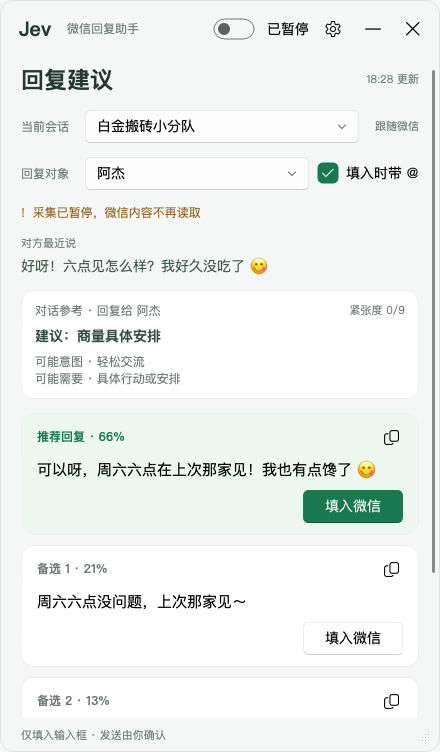
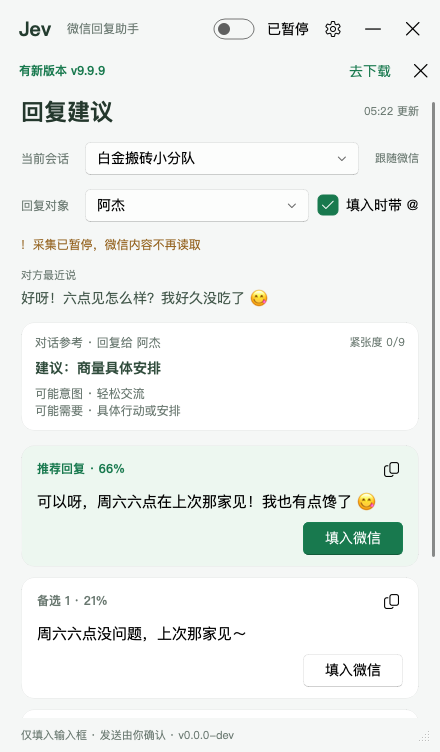
新版本提示：启动时查一次 GitHub Releases 最新版本号（可在设置关），有更新在标题栏下出横幅带下载链接；页脚显示版本号，CI 按 tag 写入 app/version.py

diff --git a/app/overlay.py b/app/overlay.py
@@ -10,13 +10,14 @@ from PySide6.QtWidgets import (
     QVBoxLayout, QWidget,
 )
 from qfluentwidgets import (
-    BodyLabel, CardWidget, CheckBox, ComboBox, FluentIcon as FIF,
+    BodyLabel, CardWidget, CheckBox, ComboBox, FluentIcon as FIF, HyperlinkButton,
     IndeterminateProgressBar, LineEdit, PasswordLineEdit, PlainTextEdit,
     PrimaryPushButton, PushButton, ScrollArea, SpinBox, SwitchButton, Theme, TransparentToolButton,
     setCustomStyleSheet, setFont, setTheme, setThemeColor,
 )
 
 from app import settings
+from app.version import VERSION
 
 _LOG_LINES = 300
 _MUTED = "#68776f"
@@ -215,13 +216,31 @@ class Overlay:
         title.addWidget(_tool(FIF.REMOVE, "最小化", self.win.showMinimized, header))
         title.addWidget(_tool(FIF.CLOSE, "关闭助手", self.win.close, header))
         outer.addWidget(header)
+        self.updateBar = QWidget(self.win)
+        update_row = QHBoxLayout(self.updateBar)
+        update_row.setContentsMargins(18, 4, 8, 4)
+        update_row.setSpacing(8)
+        self.updateLabel = _label("", 12, _GREEN, True)
+        update_row.addWidget(self.updateLabel, 1)
+        self.updateLink = HyperlinkButton("", "去下载", self.updateBar)
+        self.updateLink.setFixedHeight(24)
+        update_row.addWidget(self.updateLink)
+        closeUpdate = TransparentToolButton(FIF.CLOSE, self.updateBar)
+        closeUpdate.setFixedSize(20, 20)
+        closeUpdate.setToolTip("关闭更新提示")
+        closeUpdate.setAccessibleName("关闭更新提示")
+        closeUpdate.clicked.connect(lambda: self.updateBar.hide())
+        update_row.addWidget(closeUpdate)
+        self.updateBar.setFixedHeight(32)
+        self.updateBar.hide()
+        outer.addWidget(self.updateBar)
         self.pages = QStackedWidget(self.win)
         outer.addWidget(self.pages, 1)
         self._build_home()
         self._build_settings()
         footer = QHBoxLayout()
         footer.setContentsMargins(20, 9, 8, 8)
-        footer.addWidget(_label("仅填入输入框 · 发送由你确认", 11, _MUTED), 1)
+        footer.addWidget(_label(f"仅填入输入框 · 发送由你确认 · v{VERSION}", 11, _MUTED), 1)
         grip = QSizeGrip(self.win)
         grip.setFixedSize(16, 16)
         footer.addWidget(grip, 0, Qt.AlignBottom)
@@ -455,6 +474,17 @@ class Overlay:
         box.addWidget(self._hint(
             "开了以后群聊里可以选回复给谁，候选会针对 TA 写，填入时可带 @。关了就正常回复。"
         ))
+        update_row = QHBoxLayout()
+        update_row.addWidget(_label("启动时检查更新", 13), 1)
+        self.updateSwitch = SwitchButton()
+        self.updateSwitch.setOnText("开")
+        self.updateSwitch.setOffText("关")
+        self.updateSwitch.setAccessibleName("启动时检查更新")
+        update_row.addWidget(self.updateSwitch)
+        box.addLayout(update_row)
+        box.addWidget(self._hint(
+            "只向 GitHub 查最新版本号，不发送任何数据。国内访问 GitHub 慢的话关掉也行。"
+        ))
         body.addWidget(preference)
 
         connection = _Surface()
@@ -569,6 +599,7 @@ class Overlay:
             "已配置，留空保留" if settings.has_deepseek_key() else "输入你的 DeepSeek 密钥")
         self.dsKeyState.setText("已配置" if settings.has_deepseek_key() else "未配置")
         self.thinkingSwitch.setChecked(settings.thinking())
+        self.updateSwitch.setChecked(settings.check_update())
         self._sync_ds_fields()  # setCurrentIndex 没变就不发信号，这里补一次
         self.settingsFeedback.hide()
 
@@ -595,7 +626,8 @@ class Overlay:
                           deepseek_key or None, provider,
                           reply_target_on=self.targetSwitch.isChecked(),
                           style_text=self.styleEdit.text().strip(),
-                          thinking_on=self.thinkingSwitch.isChecked())
+                          thinking_on=self.thinkingSwitch.isChecked(),
+                          check_update_on=self.updateSwitch.isChecked())
         except Exception:
             self._settings_feedback("保存失败，请检查配置文件是否可写后重试。", error=True)
             return
@@ -652,6 +684,12 @@ class Overlay:
         self._capture_text(on)
         if self.on_toggle_capture:
             self.on_toggle_capture(on)
+
+    def set_update(self, latest, url):
+        """main.py 后台线程查到比当前新的版本才会调这个。只显示版本号和 Release 链接，别的什么都没有。"""
+        self.updateLabel.setText(f"有新版本 v{latest}")
+        self.updateLink.setUrl(url)
+        self.updateBar.show()
 
     def set_capture(self, on, reason=""):
         """父进程回报的状态：只改界面，不回调（不然和父进程来回打架）。reason 为空用默认说明。"""

diff --git a/app/update.py b/app/update.py
@@ -1,0 +1,74 @@
+# -*- coding: utf-8 -*-
+"""查 GitHub 最新 Release，只拿版本号和链接。离线/限流/GFW 一律返回 None，绝不抛异常、绝不重试。"""
+from __future__ import annotations
+
+import json
+import urllib.request
+
+_API = "https://api.github.com/repos/jev-chat/jev-chat-windows/releases/latest"
+
+
+def parse_version(v: str) -> tuple[int, ...] | None:
+    """"1.2.3" → (1, 2, 3)。哪一段不是纯数字（比如 "0.0.0-dev" 的 "0-dev"）就判不出来，返回 None——
+    current 和 latest 标签统一走这条：不是正经版本号就别比了。"""
+    segs = v.split(".")
+    if not segs or any(not seg.isdigit() for seg in segs):
+        return None
+    return tuple(int(s) for s in segs)
+
+
+def check_latest(current: str, timeout=6) -> tuple[str, str] | None:
+    """current 不是纯数字版本（源码跑/开发版）→ 直接跳过，不发请求，源码用户不会被打扰。
+    latest 比 current 严格新才返回 (最新版本号, Release 页链接)；否则/任何异常都是 None。"""
+    cur = parse_version(current)
+    if cur is None:
+        return None
+    try:
+        req = urllib.request.Request(_API, headers={
+            "User-Agent": f"jev-chat-windows/{current}",
+            "Accept": "application/vnd.github+json",
+        })
+        with urllib.request.urlopen(req, timeout=timeout) as resp:
+            data = json.load(resp)
+        tag = str(data.get("tag_name") or "")
+        tag = tag[1:] if tag.startswith("v") else tag
+        url = str(data.get("html_url") or "")
+        latest = parse_version(tag)
+        if latest is None or not url or latest <= cur:
+            return None
+        return tag, url
+    except Exception:
+        return None
+
+
+if __name__ == "__main__":
+    # 自测：不碰网络，monkeypatch urlopen。跑法：python -m app.update
+    from io import BytesIO
+    from unittest.mock import patch
+
+    def _fake(payload):
+        def _open(*a, **k):
+            return BytesIO(json.dumps(payload).encode())
+        return _open
+
+    def _boom(*a, **k):
+        raise OSError("offline")
+
+    assert parse_version("1.2.3") == (1, 2, 3)
+    assert parse_version("0.0.0-dev") is None
+    assert parse_version("dev") is None
+
+    with patch("urllib.request.urlopen", _fake({"tag_name": "v9.9.9", "html_url": "https://x/release"})):
+        assert check_latest("1.0.0") == ("9.9.9", "https://x/release")  # 新版本 → 元组
+
+    with patch("urllib.request.urlopen", _fake({"tag_name": "v1.0.0", "html_url": "https://x/release"})):
+        assert check_latest("1.0.0") is None  # 同版本 → None
+        assert check_latest("1.5.0") is None  # 比 latest 还新（本地跑的开发分支）→ None
+
+    with patch("urllib.request.urlopen", _boom):
+        assert check_latest("1.0.0") is None  # 网络错误 → None
+
+    with patch("urllib.request.urlopen", _boom):
+        assert check_latest("0.0.0-dev") is None  # 开发版：根本不该走到 urlopen，_boom 也证明了这点
+
+    print("app/update.py 自测通过")

diff --git a/tools/preview_ui.py b/tools/preview_ui.py
@@ -69,11 +69,11 @@ def main() -> int:
 
     demo_settings = {"has_key": args.state != "setup", "relationship": "friends", "context": 10,
                      "has_deepseek_key": False, "draft_provider": "openrouter", "reply_target": True,
-                     "style": "话少，基本不用标点，急了才发感叹号", "thinking": False}
+                     "style": "话少，基本不用标点，急了才发感叹号", "thinking": False, "check_update": True}
 
     def save_demo_settings(key, relationship_text, context_n=None,
                            deepseek_key_text=None, draft_provider=None, reply_target_on=None,
-                           style_text=None, thinking_on=None):
+                           style_text=None, thinking_on=None, check_update_on=None):
         if key:
             demo_settings["has_key"] = True
         demo_settings["relationship"] = relationship_text
@@ -89,6 +89,8 @@ def main() -> int:
             demo_settings["style"] = style_text
         if thinking_on is not None:
             demo_settings["thinking"] = bool(thinking_on)
+        if check_update_on is not None:
+            demo_settings["check_update"] = bool(check_update_on)
 
     # 在创建 Overlay 前替换设置接口，整个事件循环期间都保持隔离。
     with patch.multiple(
@@ -102,6 +104,7 @@ def main() -> int:
         reply_target=lambda: demo_settings["reply_target"],
         style=lambda: demo_settings["style"],
         thinking=lambda: demo_settings["thinking"],
+        check_update=lambda: demo_settings["check_update"],
         save=save_demo_settings,
     ):
         from PySide6.QtCore import QTimer
@@ -129,6 +132,7 @@ def main() -> int:
             ov.set_chat(_CHAT)
             ov.show(_RESULT)
             ov.set_status("演示模式：已生成 3 条建议，点击填入仅模拟操作。", kind="success")
+            ov.set_update("9.9.9", "https://github.com/jev-chat/jev-chat-windows/releases/latest")
             if args.state == "loading":
                 ov.set_busy(True)
                 ov.set_status("演示模式：正在为最新消息生成建议…", kind="busy")

diff --git a/app/settings.py b/app/settings.py
@@ -70,6 +70,14 @@ def thinking() -> bool:
     except (OSError, ValueError):
         return False
 
+def check_update() -> bool:
+    """启动时要不要去 GitHub 查一次最新版本号：默认开，只出这一次网，设置里能关。"""
+    try:
+        with open(_CONFIG, encoding="utf-8") as f:
+            return bool(json.load(f).get("check_update", True))
+    except (OSError, ValueError):
+        return True
+
 def _get_key(env_name: str) -> str:
     """进程环境优先；没有就读注册表并带进进程环境，之后 core/ 里按 os.environ 读就有了。"""
     v = os.environ.get(env_name, "").strip()
@@ -113,7 +121,7 @@ def has_deepseek_key() -> bool:
 def save(key_text: str | None, relationship_text: str, context_n: int | None = None,
          deepseek_key_text: str | None = None, provider_text: str | None = None,
          reply_target_on: bool | None = None, style_text: str | None = None,
-         thinking_on: bool | None = None) -> None:
+         thinking_on: bool | None = None, check_update_on: bool | None = None) -> None:
     """每个参数为空/None = 保留当前值。两个 key 都只写进程环境 + HKCU\\Environment，不写任何文件。"""
     if key_text:
         _set_key(_ENV, key_text)
@@ -124,6 +132,8 @@ def save(key_text: str | None, relationship_text: str, context_n: int | None = N
     target = reply_target() if reply_target_on is None else bool(reply_target_on)
     style_v = style() if style_text is None else str(style_text).strip()  # 空串 = 清掉
     think = thinking() if thinking_on is None else bool(thinking_on)
+    check = check_update() if check_update_on is None else bool(check_update_on)
     with open(_CONFIG, "w", encoding="utf-8") as f:
         json.dump({"relationship": relationship_text, "context": n, "draft_provider": provider,
-                   "reply_target": target, "style": style_v, "thinking": think}, f, ensure_ascii=False)
+                   "reply_target": target, "style": style_v, "thinking": think,
+                   "check_update": check}, f, ensure_ascii=False)

diff --git a/app/version.py b/app/version.py
@@ -1,0 +1,3 @@
+# -*- coding: utf-8 -*-
+"""版本号。源码直接跑就是这个占位值；CI 打包前会用 tag 名（或 workflow_dispatch 的短 SHA）覆盖这一行。"""
+VERSION = "0.0.0-dev"
